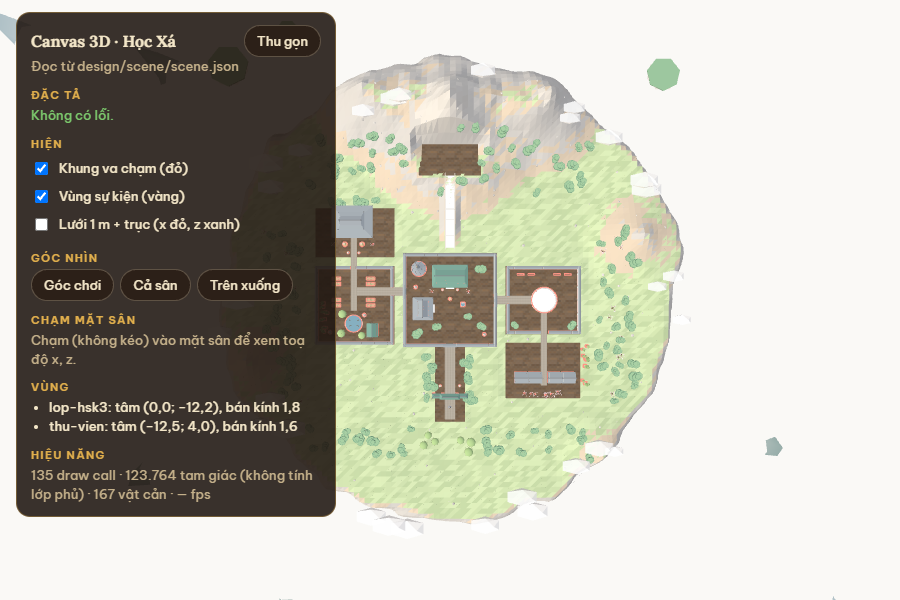
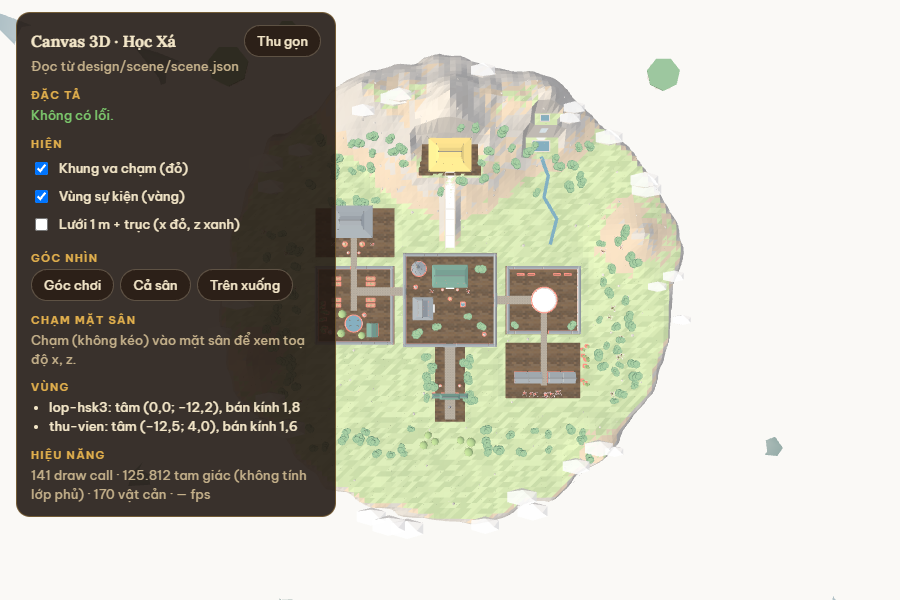
design 2026-11-11.7: Hậu Sơn (thác, suối, ao) + Chưởng Môn Điện trên Nội Môn

Changed region(s): [[0.56, 0.15, 0.6533, 0.39], [0.0311, 0.78, 0.3422, 0.84], [0.4667, 0.21, 0.5289, 0.3]]

diff --git a/design/CHANGELOG.md b/design/CHANGELOG.md
@@ -3,6 +3,29 @@
 Mỗi lần chốt một mục, mới nhất ở trên. Mã `<YYYY-MM-DD>.<số>`. Mỗi mục: loại (token · chuỗi · giao diện ·
 luồng/luật · dữ liệu), màn / thành phần, phiếu đáp ứng (nếu có), file đổi.
 
+## 2026-11-11.7 — Hậu Sơn (thác, suối, ao) + Chưởng Môn Điện trên Nội Môn
+
+- Loại: cảnh 3D — **bố cục** (2 bục Hậu Sơn, 2 ao, nhà mới trên bục Nội Môn, khu mới) + **ngoại hình** (thác, suối) ·
+  chuỗi (tên nhà, tên khu).
+- Người dùng nhờ phiên VS Code làm thay phiên thiết kế. Code: commit `e3a1deb` (B6b — nhà theo độ cao mặt đất, thác / suối).
+- Trường đã đổi (cũ → mới):
+  - `terrain.plateaus` +2 (không lát, kè dựng đứng blend 1): **đầu thác** x 36…48 z −84…−77 y 15 · **đầm chân thác**
+    x 34…50 z −75…−66 y 4.
+  - `terrain.waterfalls` (mới): (42; −76) từ y 15 xuống y 4, rộng 3.
+  - `terrain.streams` (mới): suối rộng 1,6 qua (42; −66) → (46; −58) → (44; −48) → (50; −38) → (47; −26), chảy về phía
+    Diễn Võ Trường.
+  - `water` +2: đầm chân thác (42; −71) 8 × 5 · vũng đầu thác (42; −80,5) 4 × 3.
+  - `buildings` +1: **Chưởng Môn Điện** `chuong-mon-dien`, kiểu `dien`, (0; −64) 12 × 8, mái vàng `#c9a13b` — trên bục
+    Nội Môn y 11, cuối Thiên Bậc. Không có vùng học (chưa có nội dung).
+  - `site.areas` +1: **Hậu Sơn 後山** x 32…56 z −88…−60.
+- `R-VA-1` / `R-VUNG-1`: Ngoại Môn, tường, vùng học, điểm xuất phát **không đổi** → ví dụ hai luật vẫn đúng. Nhà mới có
+  va chạm (như mọi nhà); ao mới chặn đi như ao cũ (`R-VA-1`).
+- `npm run scene:check`: **Không có lỗi** (ao, điện, bục đều trên đất phẳng).
+- Draw call (Canvas 3D): trên xuống **141** (≤ 150) · Hậu Sơn 26 · Nội Môn 31; ~126k tam giác.
+- **Cần code**: núi xa đỉnh rộng chân hơn (từ mục .5). Đề xuất mở cổng tường bắc (mục .6) vẫn chờ người dùng.
+- Ảnh: `screens/Canh-tren.png` (chụp lại), `Canh-hau-son.png`, `Canh-chuong-mon-dien.png` (mới).
+- File: `scene/scene.json`, ba ảnh trên.
+
 ## 2026-11-11.6 — Thiên Bậc + bục Nội Môn, cỏ búi, đá rải, chữ Hán tên khu
 
 - Loại: cảnh 3D — **bố cục** (bục Nội Môn mới, bậc đá, 2 khu mới) + **ngoại hình** (cỏ, đá) · chuỗi (chữ Hán tên nơi / khu).
